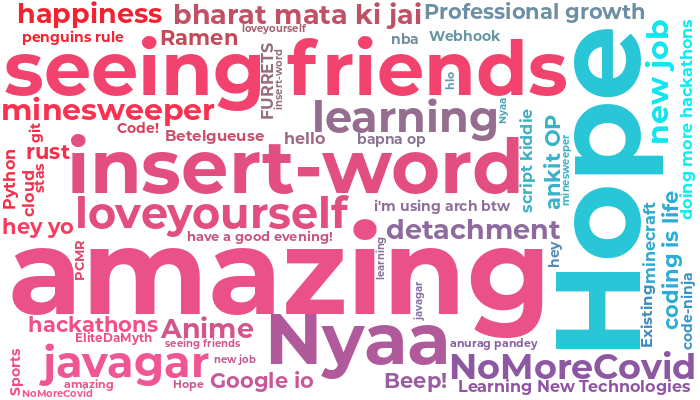
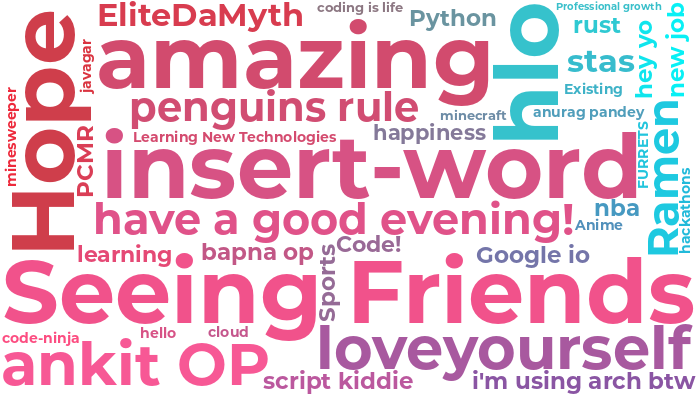
@javagarm regenerated the Word Cloud

diff --git a/README.md b/README.md
@@ -1,18 +1,15 @@
- ## Hello World!<img src="https://github.com/javagarm/JavagarM/blob/main/assets/Hi.gif" width="29px"> <h1>I'm &nbsp;&nbsp;JAVAGAR</h1>
+    <h2> Hello World!<img src="https://github.com/javagarm/JavagarM/blob/main/assets/Hi.gif" width="29px"></h2> <h1>I'm &nbsp;&nbsp;JAVAGAR</h1>
   [![Visits Badge](https://badges.pufler.dev/visits/javagarm/javagarm)](https://badges.pufler.dev/visits/javagarm/javagarm)
-
+  
  <img src="https://github.com/javagarm/JavagarM/blob/main/assets/life_balance.gif" alt="side Image" align="right" width="200" height="auto" />
  <img src="https://media3.giphy.com/media/ZEB6yFbLnhyQf7g3hn/giphy.gif" alt="side Gif" align="right" width="150" height="auto"/>
-
+ 
 #### - 🔭 Currently Working towards Master's Degree
   - 🌱 I’m currently learning Machine Learning and AI
-  - 💬 Ask me about Data...
+  - 💬 Ask me about Data..
   - 😄 Pronouns: He / Him
   - ⚡ Fun fact: Juz..Now I'm trying 2.. understand Myself
-
-
 Reach me @ [![Gmail Badge](https://img.shields.io/badge/-javagarjava01-c14438?style=flat&logo=Gmail&logoColor=white&link=mailto:javagarjava01@gmail.com)](mailto:javagarjava01@gmail.com)
-
 ### Connect me with
 [![Linkedin Badge](https://img.shields.io/badge/-javagarm-blue?style=flat&logo=Linkedin&logoColor=white&link=https://www.linkedin.com/in/javagarm/)](https://www.linkedin.com/in/javagarm/)
 [![kaggle Badge](https://img.shields.io/badge/-javagarm-white?style=flat&logo=kaggle&logoColor=blue&link=https://www.kaggle.com/javagarm/)](https://www.kaggle.com/javagarm/)
@@ -21,49 +18,36 @@ Reach me @ [![Gmail Badge](https://img.shields.io/badge/-javagarjava01-c14438?st
 
 
  [![Stats](https://github-readme-stats.vercel.app/api?username=javagarm&show_icons=true&theme=radical)](https://github-readme-stats.vercel.app/api?username=javagarm&show_icons=true&theme=radical)&nbsp; &nbsp; &nbsp; &nbsp; &nbsp; &nbsp; &nbsp; &nbsp; &nbsp; &nbsp; <img src="https://github.com/javagarm/JavagarM/blob/main/assets/saved.gif" width="195">
-
+  
   [![trophy](https://github-profile-trophy.vercel.app/?username=javagarm&theme=juicyfresh&no-frame=true&row=1&&margin-w=20&no-bg=true)](https://github-profile-trophy.vercel.app/?username=javagarm&theme=juicyfresh&no-frame=true&row=1&&margin-w=20&no-bg=true)
-
+  
  <p><img align="left" src="https://github-readme-stats.vercel.app/api/top-langs?username=javagarm&show_icons=true&locale=en&layout=compact" alt="javagarm" /></p>
  <p>&nbsp;<img align="center" src="https://github-readme-streak-stats.herokuapp.com/?user=javagarm&" alt="javagarm" /></p>
+  
+      ## Join the Community Word Cloud :cloud: :pencil2:
+
+      ![](https://img.shields.io/badge/Words%20Added-18-brightgreen?labelColor=7D898B)
+      ![](https://img.shields.io/badge/Word%20Clouds%20Created-5-48D6FF?labelColor=7D898B)
+      ![](https://img.shields.io/badge/Total%20Participants-2-AC6EFF?labelColor=7D898B)
+
+      ### :thought_balloon: [Add a word](https://github.com/javagarm/JavagarM/issues/new?template=addword.md&title=wordcloud%7Cadd%7C%3CINSERT-WORD%3E) to see the word cloud update in real time :rocket:
+
+      A new word cloud will be automatically generated when you [add your own word](https://github.com/javagarm/JavagarM/issues/new?template=addword.md&title=wordcloud%7Cadd%7C%3CINSERT-WORD%3E). The prompt will change frequently, so be sure to come back and check it out :relaxed:
+
+      :star2: Don't like the arrangement of the current word cloud? [Regenerate it](https://github.com/javagarm/JavagarM/issues/new?template=shufflecloud.md&title=wordcloud%7Cshuffle) :game_die:
+
+      <div align="center">
+
+        ## What are you looking forward to in 2021? :tada: :sunglasses: :confetti_ball:
+
+        <img src="https://raw.githubusercontent.com/javagarm/JavagarM/master/wordcloud/wordcloud.png" alt="WordCloud" width="100%">
+
+        ![Word Cloud Words Badge](https://img.shields.io/badge/Words%20in%20this%20Cloud-6-informational?labelColor=7D898B)
+        ![Word Cloud Contributors Badge](https://img.shields.io/badge/Contributors%20this%20Cloud-2-blueviolet?labelColor=7D898B)
 
 
+[![Github Badge](https://img.shields.io/badge/-@GOKU--GO-24292e?style=flat&logo=Github&logoColor=white&link=https://github.com/GOKU-GO)](https://github.com/GOKU-GO) [![Github Badge](https://img.shields.io/badge/-@javagarm-24292e?style=flat&logo=Github&logoColor=white&link=https://github.com/javagarm)](https://github.com/javagarm) 
 
-<!--
-**javagarm/JavagarM** is a ✨ _special_ ✨ repository because its `README.md` (this file) appears on your GitHub profile.
-(https://www.linkedin.com/in/javagarm/)2EC866
-Here are some ideas to get you started:
-- 🔭 I’m currently working on ...
-- 🌱 I’m currently learning ...
-- 👯 I’m looking to collaborate on ...
-- 🤔 I’m looking for help with ...
-- 💬 Ask me about ...
-- 📫 How to reach me: ...
-- 😄 Pronouns: ...
-- ⚡ Fun fact: ...
--->
-## Join the Community Word Cloud :cloud: :pencil2:
+ Check out the [previous word cloud](https://github.com/javagarm/JavagarM/blob/master/previous_clouds/previous_clouds.md#what-podcast-are-you-currently-listening-to-microphone-headphones-notes) to see our community's **What podcast are you currently listening to? :microphone: :headphones: :notes:**</div>
 
-![](https://img.shields.io/badge/Words%20Added-238-brightgreen?labelColor=7D898B)
-![](https://img.shields.io/badge/Word%20Clouds%20Created-5-48D6FF?labelColor=7D898B)
-![](https://img.shields.io/badge/Total%20Participants-160-AC6EFF?labelColor=7D898B)
-
-### :thought_balloon: [Add a word](https://github.com/javagarm/JavagarM/issues/new?template=addword.md&title=wordcloud%7Cadd%7C%3CINSERT-WORD%3E) to see the word cloud update in real time :rocket:
-
-A new word cloud will be automatically generated when you [add your own word](https://github.com/javagarm/JavagarM/issues/new?template=addword.md&title=wordcloud%7Cadd%7C%3CINSERT-WORD%3E). The prompt will change frequently, so be sure to come back and check it out :relaxed:
-
-:star2: Don't like the arrangement of the current word cloud? [Regenerate it](https://github.com/javagarm/JavagarM/issues/new?template=shufflecloud.md&title=wordcloud%7Cshuffle) :game_die:
-
-<div align="center">
-
-  ## What are you looking forward to in 2021? :tada: :sunglasses: :confetti_ball:
-
-  <img src="https://raw.githubusercontent.com/javagarm/JavagarM/master/wordcloud/wordcloud.png" alt="WordCloud" width="100%">
-
-  ![Word Cloud Words Badge](https://img.shields.io/badge/Words%20in%20this%20Cloud-40-informational?labelColor=7D898B)
-  ![Word Cloud Contributors Badge](https://img.shields.io/badge/Contributors%20this%20Cloud-35-blueviolet?labelColor=7D898B)
-
-
-[![Github Badge](https://img.shields.io/badge/-@javagarm-24292e?style=flat&logo=Github&logoColor=white&link=https://github.com/javagarm)](https://github.com/javagarm) [![Github Badge](https://img.shields.io/badge/-@ishmamt-24292e?style=flat&logo=Github&logoColor=white&link=https://github.com/ishmamt)](https://github.com/ishmamt) [![Github Badge](https://img.shields.io/badge/-@KennyOliver-24292e?style=flat&logo=Github&logoColor=white&link=https://github.com/KennyOliver)](https://github.com/KennyOliver) [![Github Badge](https://img.shields.io/badge/-@agonzal-24292e?style=flat&logo=Github&logoColor=white&link=https://github.com/agonzal)](https://github.com/agonzal) [![Github Badge](https://img.shields.io/badge/-@fasih4444-24292e?style=flat&logo=Github&logoColor=white&link=https://github.com/fasih4444)](https://github.com/fasih4444) [![Github Badge](https://img.shields.io/badge/-@Rishit--dagli-24292e?style=flat&logo=Github&logoColor=white&link=https://github.com/Rishit-dagli)](https://github.com/Rishit-dagli) [![Github Badge](https://img.shields.io/badge/-@nkitan-24292e?style=flat&logo=Github&logoColor=white&link=https://github.com/nkitan)](https://github.com/nkitan) [![Github Badge](https://img.shields.io/badge/-@awoodford-24292e?style=flat&logo=Github&logoColor=white&link=https://github.com/awoodford)](https://github.com/awoodford) [![Github Badge](https://img.shields.io/badge/-@DeeshanSharma-24292e?style=flat&logo=Github&logoColor=white&link=https://github.com/DeeshanSharma)](https://github.com/DeeshanSharma) [![Github Badge](https://img.shields.io/badge/-@lambwheit-24292e?style=flat&logo=Github&logoColor=white&link=https://github.com/lambwheit)](https://github.com/lambwheit) [![Github Badge](https://img.shields.io/badge/-@junxian428-24292e?style=flat&logo=Github&logoColor=white&link=https://github.com/junxian428)](https://github.com/junxian428) [![Github Badge](https://img.shields.io/badge/-@motiontx-24292e?style=flat&logo=Github&logoColor=white&link=https://github.com/motiontx)](https://github.com/motiontx) [![Github Badge](https://img.shields.io/badge/-@eagleanurag-24292e?style=flat&logo=Github&logoColor=white&link=https://github.com/eagleanurag)](https://github.com/eagleanurag) [![Github Badge](https://img.shields.io/badge/-@DonaldKLee-24292e?style=flat&logo=Github&logoColor=white&link=https://github.com/DonaldKLee)](https://github.com/DonaldKLee) [![Github Badge](https://img.shields.io/badge/-@willdoescode-24292e?style=flat&logo=Github&logoColor=white&link=https://github.com/willdoescode)](https://github.com/willdoescode) [![Github Badge](https://img.shields.io/badge/-@shqosimov-24292e?style=flat&logo=Github&logoColor=white&link=https://github.com/shqosimov)](https://github.com/shqosimov) [![Github Badge](https://img.shields.io/badge/-@maciekglowacki-24292e?style=flat&logo=Github&logoColor=white&link=https://github.com/maciekglowacki)](https://github.com/maciekglowacki) [![Github Badge](https://img.shields.io/badge/-@yusufpapurcu-24292e?style=flat&logo=Github&logoColor=white&link=https://github.com/yusufpapurcu)](https://github.com/yusufpapurcu) [![Github Badge](https://img.shields.io/badge/-@blodvan1-24292e?style=flat&logo=Github&logoColor=white&link=https://github.com/blodvan1)](https://github.com/blodvan1) [![Github Badge](https://img.shields.io/badge/-@ronan696-24292e?style=flat&logo=Github&logoColor=white&link=https://github.com/ronan696)](https://github.com/ronan696) [![Github Badge](https://img.shields.io/badge/-@aaditkamat-24292e?style=flat&logo=Github&logoColor=white&link=https://github.com/aaditkamat)](https://github.com/aaditkamat) [![Github Badge](https://img.shields.io/badge/-@EliteDaMyth-24292e?style=flat&logo=Github&logoColor=white&link=https://github.com/EliteDaMyth)](https://github.com/EliteDaMyth) [![Github Badge](https://img.shields.io/badge/-@Mogakamo-24292e?style=flat&logo=Github&logoColor=white&link=https://github.com/Mogakamo)](https://github.com/Mogakamo) [![Github Badge](https://img.shields.io/badge/-@KonradLinkowski-24292e?style=flat&logo=Github&logoColor=white&link=https://github.com/KonradLinkowski)](https://github.com/KonradLinkowski) [![Github Badge](https://img.shields.io/badge/-@UltiRequiem-24292e?style=flat&logo=Github&logoColor=white&link=https://github.com/UltiRequiem)](https://github.com/UltiRequiem) [![Github Badge](https://img.shields.io/badge/-@krthr-24292e?style=flat&logo=Github&logoColor=white&link=https://github.com/krthr)](https://github.com/krthr) [![Github Badge](https://img.shields.io/badge/-@DenverCoder1-24292e?style=flat&logo=Github&logoColor=white&link=https://github.com/DenverCoder1)](https://github.com/DenverCoder1) [![Github Badge](https://img.shields.io/badge/-@LuciFR1809-24292e?style=flat&logo=Github&logoColor=white&link=https://github.com/LuciFR1809)](https://github.com/LuciFR1809) [![Github Badge](https://img.shields.io/badge/-@myl989-24292e?style=flat&logo=Github&logoColor=white&link=https://github.com/myl989)](https://github.com/myl989) [![Github Badge](https://img.shields.io/badge/-@donno2048-24292e?style=flat&logo=Github&logoColor=white&link=https://github.com/donno2048)](https://github.com/donno2048) [![Github Badge](https://img.shields.io/badge/-@cosmoglint-24292e?style=flat&logo=Github&logoColor=white&link=https://github.com/cosmoglint)](https://github.com/cosmoglint) [![Github Badge](https://img.shields.io/badge/-@cdthomp1-24292e?style=flat&logo=Github&logoColor=white&link=https://github.com/cdthomp1)](https://github.com/cdthomp1) [![Github Badge](https://img.shields.io/badge/-@The--Repo--Club-24292e?style=flat&logo=Github&logoColor=white&link=https://github.com/The-Repo-Club)](https://github.com/The-Repo-Club) [![Github Badge](https://img.shields.io/badge/-@JessicaLim8-24292e?style=flat&logo=Github&logoColor=white&link=https://github.com/JessicaLim8)](https://github.com/JessicaLim8) [![Github Badge](https://img.shields.io/badge/-@AdrBender-24292e?style=flat&logo=Github&logoColor=white&link=https://github.com/AdrBender)](https://github.com/AdrBender) 
-
- Check out the [previous word cloud](https://github.com/javagarm/JavagarM/blob/master/previous_clouds/previous_clouds.md) to see our community
+ ### Need inspiration for your own README? Check out [How to Stand out on GitHub using Profile READMEs](https://medium.com/better-programming/how-to-stand-out-on-github-with-profile-readmes-dfd2102a3490?source=friends_link&sk=61df9c4b63b329ad95528b8d7c00061f)
